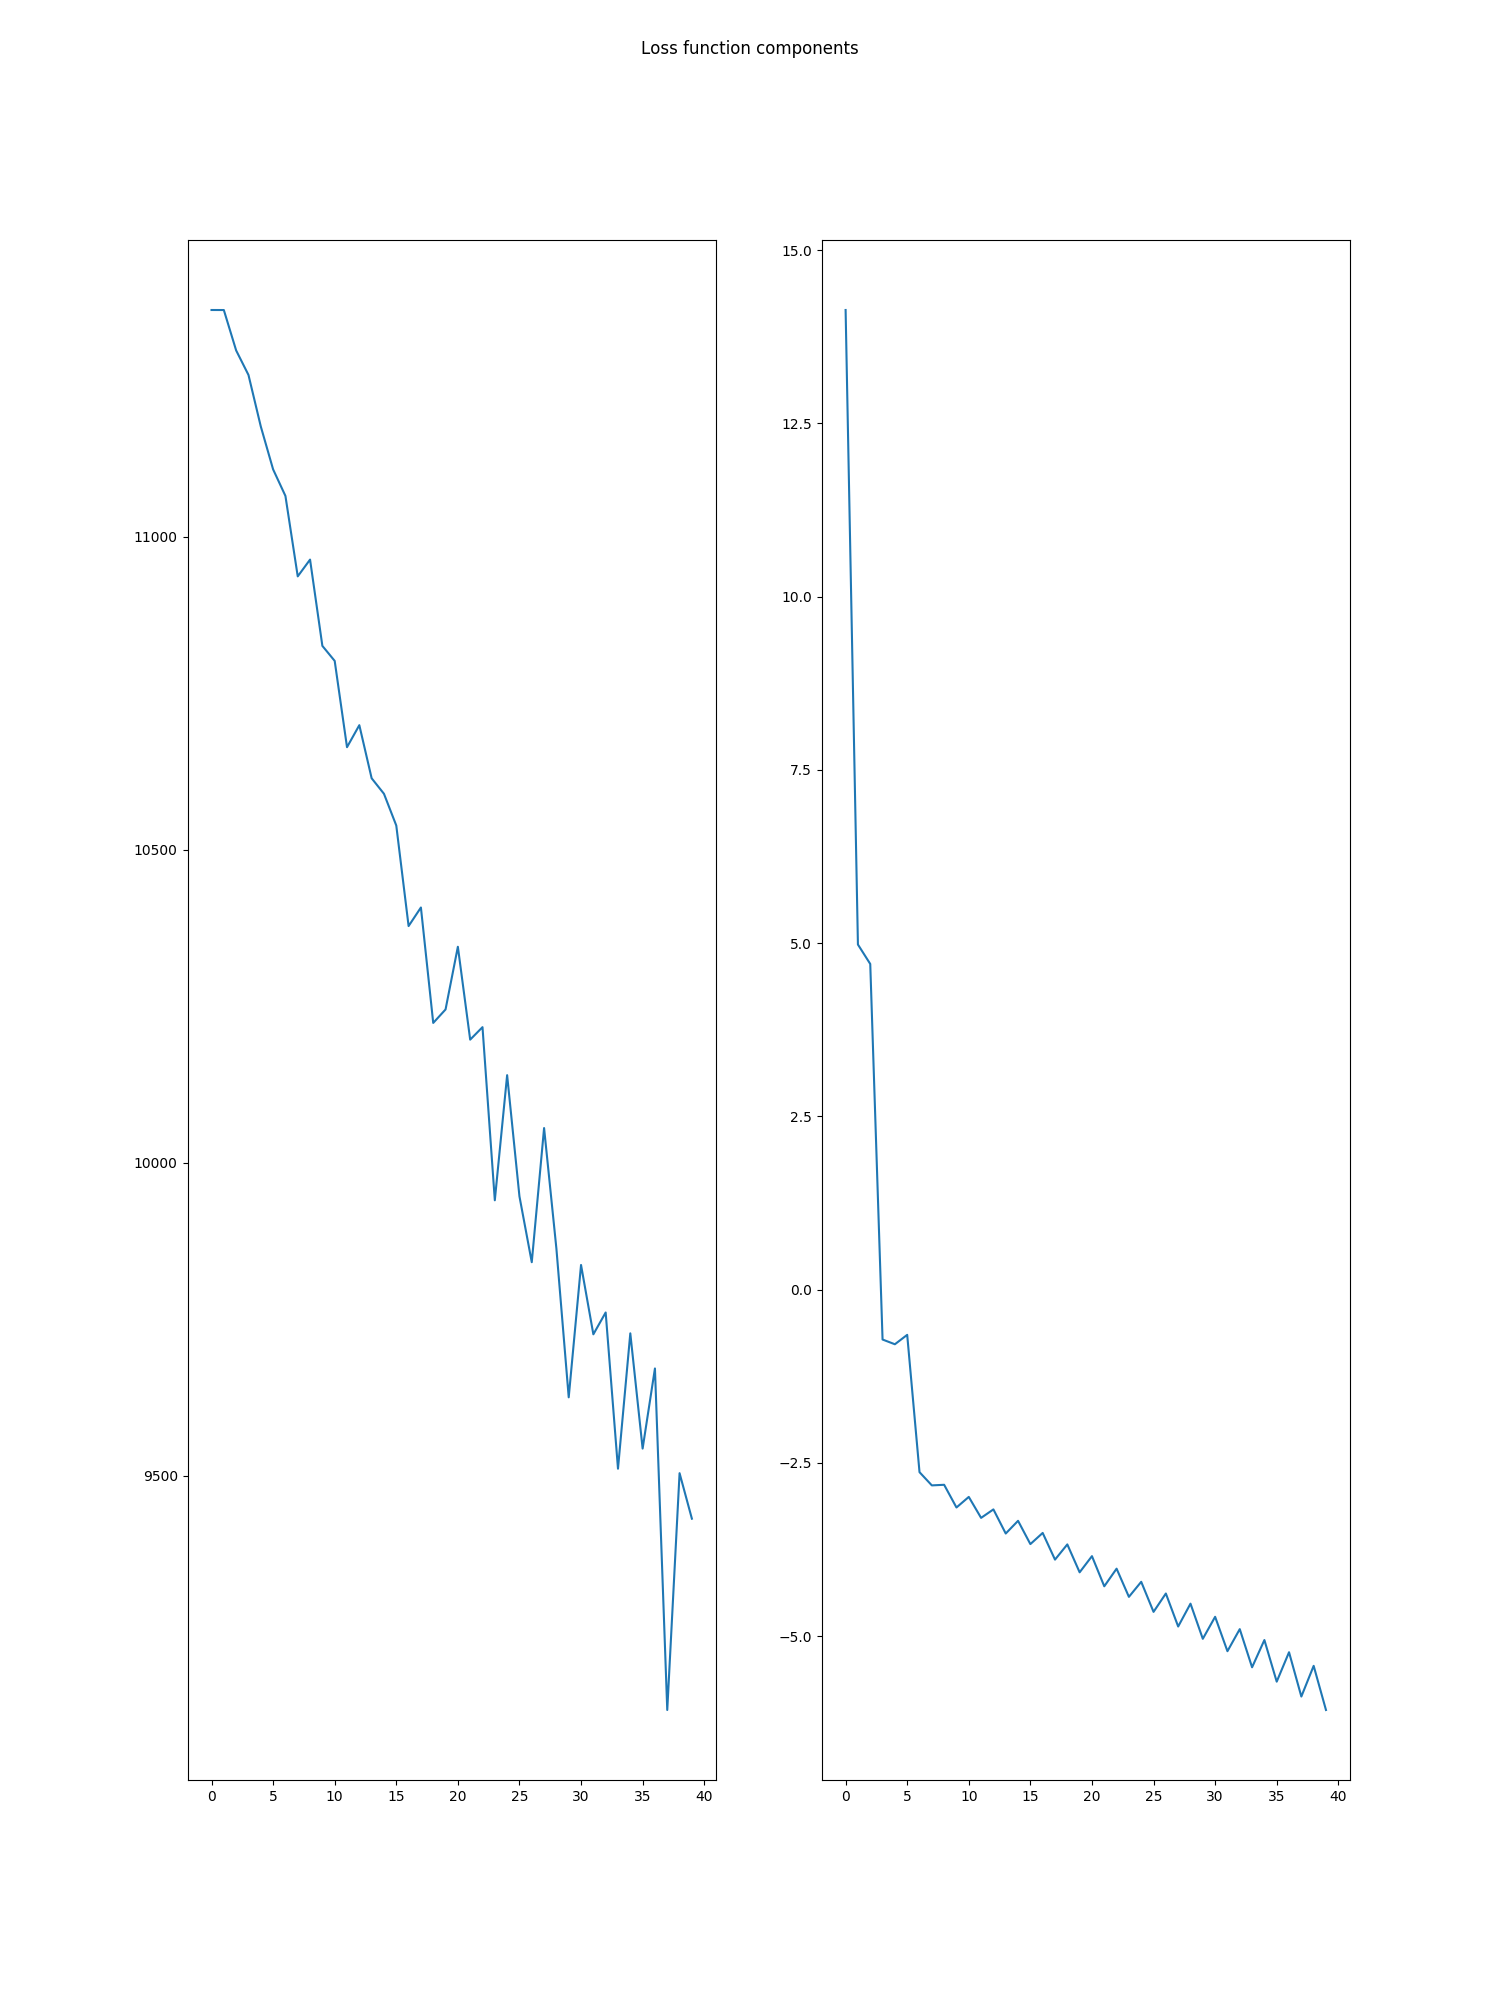
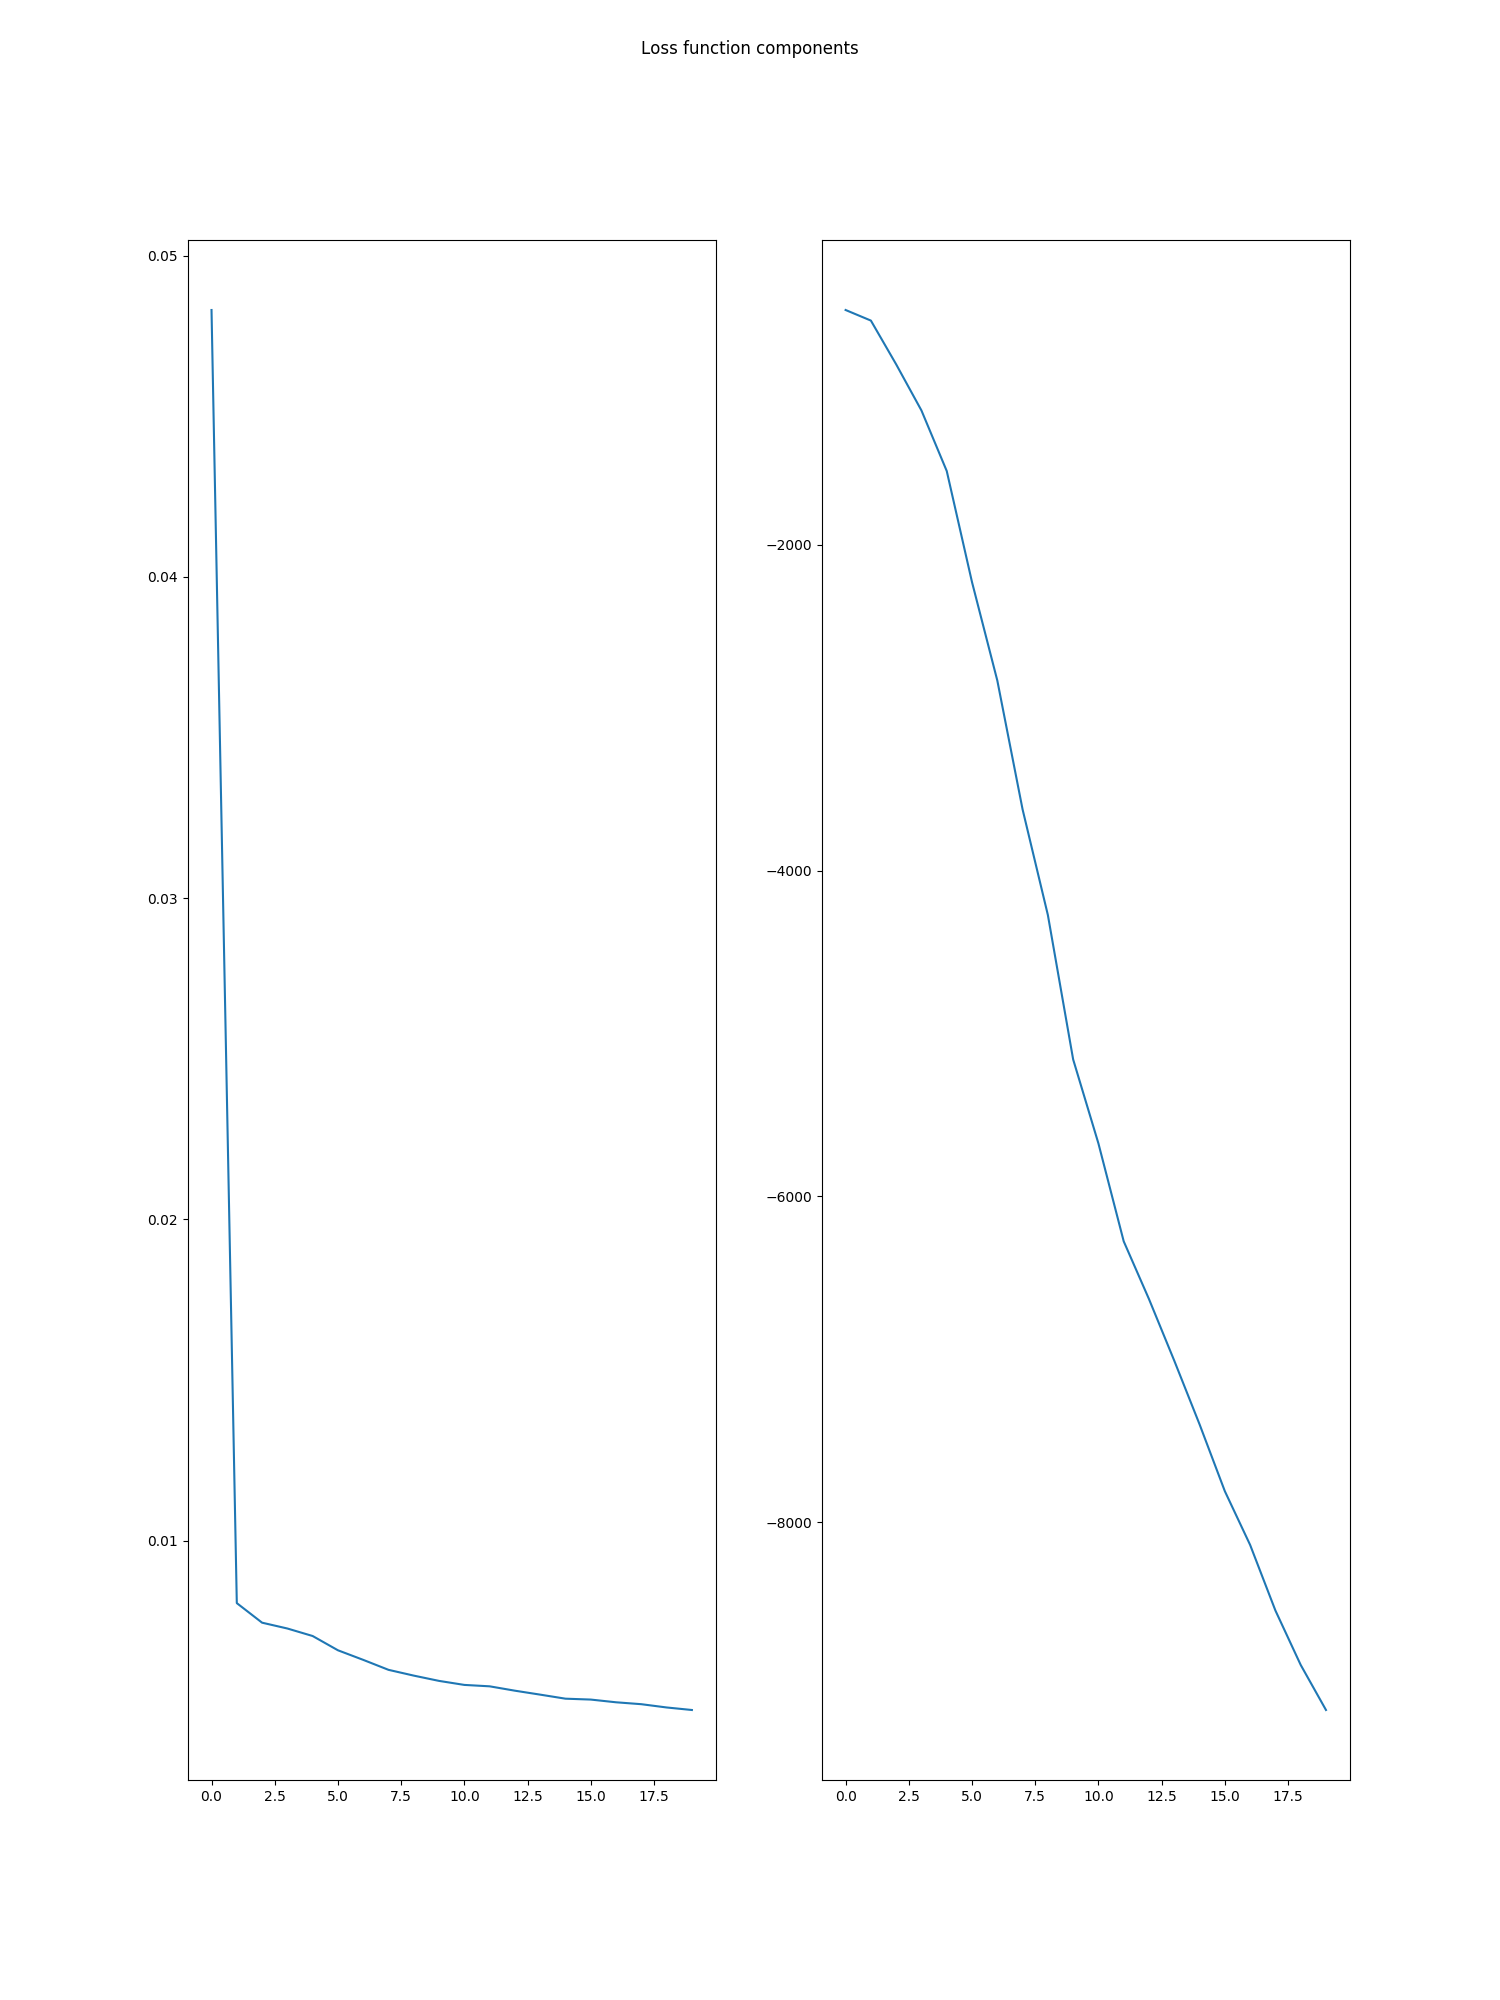
running draw model

diff --git a/src/VAE_model.py b/src/VAE_model.py
@@ -12,23 +12,24 @@ import numpy as np
 # tf.enable_eager_execution()
 
 # %%
+test_mode = False
 
 H, W = 128, 128  # image dimensions
 n_pixels = H*W  # number of pixels in image
 kernel_size = [2, 2]
-dec_size = 350  # 00
-enc_size = 350  # 00
-T = 10
+dec_size = 3 if test_mode else 150  # 00
+enc_size = 3 if test_mode else 150  # 00
+T = 2 if test_mode else 10
 batch_size = 100
 input_size = (batch_size, H, W, 1)
 
-train_iters = 200
+epochs = 20
 eta = 1e-3
 eps = 1e-8
 
 read_size = 2*n_pixels
 write_size = n_pixels
-latent_dim = 200
+latent_dim = 2 if test_mode else 100
 
 DO_SHARE = None
 
@@ -47,16 +48,16 @@ x = tf.placeholder(tf.float32, shape=(batch_size, n_pixels))
 #             )
 
 encoder = tf.nn.rnn_cell.LSTMCell(
-                enc_size,
-                state_is_tuple=True,
-                activity_regularizer=tf.contrib.layers.l2_regularizer(0.001)
-                )
+    enc_size,
+    state_is_tuple=True,
+    activity_regularizer=tf.contrib.layers.l2_regularizer(0.001)
+)
 
 decoder = tf.nn.rnn_cell.LSTMCell(
-                dec_size,
-                state_is_tuple=True,
-                activity_regularizer=tf.contrib.layers.l2_regularizer(0.001)
-                )
+    dec_size,
+    state_is_tuple=True,
+    activity_regularizer=tf.contrib.layers.l2_regularizer(0.001)
+)
 
 print(encoder.output_size, decoder.output_size)
 
@@ -72,18 +73,18 @@ def longform(x):
 def linear_conv(x, output_dim):
     w = tf.get_variable("w", [128, 128, output_dim])
     b = tf.get_variable(
-            "b",
-            [output_dim],
-            initializer=tf.constant_initializer(0.0))
+        "b",
+        [output_dim],
+        initializer=tf.constant_initializer(0.0))
     return tf.reshape(tf.tensordot(x, w, [[1, 2], [0, 1]]), (100, 20)) + b
 
 
 def linear(x, output_dim):
     w = tf.get_variable("w", [x.get_shape()[1], output_dim])
     b = tf.get_variable(
-            "b",
-            [output_dim],
-            initializer=tf.constant_initializer(0.0))
+        "b",
+        [output_dim],
+        initializer=tf.constant_initializer(0.0))
     return tf.matmul(x, w) + b
 
 
@@ -167,7 +168,7 @@ for t in range(T):
 KL = tf.add_n(KL_loss)
 Lz = tf.reduce_mean(KL)
 
-cost = Lx + Lz
+cost = Lx  # + Lz
 
 # OPTIMIZATION
 
@@ -180,8 +181,8 @@ for i, (g, v) in enumerate(grads):
 
 train_op = optimizer.apply_gradients(grads)
 
-t_fn = "/home/solli-comphys/github/VAE-event-classification/data/processed/train.npy"
-te_fn = "/home/solli-comphys/github/VAE-event-classification/data/processed/test.npy"
+t_fn = "/Users/solli/Documents/github/VAE-event-classification/data/processed/train.npy"
+te_fn = "/Users/solli/Documents/github/VAE-event-classification/data/processed/test.npy"
 
 X_train = np.load(t_fn)
 n_train = X_train.shape[0]
@@ -189,10 +190,10 @@ n_train = X_train.shape[0]
 X_test = np.load(te_fn)
 n_test = X_test.shape[0]
 
+train_iters = n_train // batch_size
+
 fetches = []
 fetches.extend([Lx, Lz, train_op])
-Lxs = [0]*train_iters
-Lzs = [0]*train_iters
 
 sess = tf.InteractiveSession()
 
@@ -203,50 +204,71 @@ for v in tf.global_variables():
     print("%s : %s " % (v.name, v.get_shape()))
 
 
-def fetch_minibatch(x):
-    ind = np.random.randint(0, n_train, size=(batch_size, ))
-    return X_train[ind].reshape(batch_size, n_pixels)
-
-
 def store_result():
+    print("saving model and drawings")
     canvasses = sess.run(canvas_seq, feed_dict)
     canvasses = np.array(canvasses)
 
-    filename = "/home/solli-comphys/github/VAE-event-classification/drawing/canvasses.npy"
+    filename = "/Users/solli/Documents/github/VAE-event-classification/drawing/canvasses.npy"
     np.save(filename, canvasses)
 
-    model_fn = "/home/solli-comphys/github/VAE-event-classification/models/draw.ckpt"
+    model_fn = "/Users/solli/Documents/github/VAE-event-classification/models/draw.ckpt"
     saver.save(sess, model_fn)
 
 
+class BatchManager:
+
+    def __init__(self, nSamples):
+        self.available = np.arange(0, nSamples)
+        self.nSamples = nSamples
+
+    def fetch_minibatch(self, x):
+        tmp_ind = np.random.randint(0, self.nSamples, size=(batch_size, ))
+        ind = self.available[tmp_ind]
+
+        self.available = np.delete(self.available, tmp_ind)
+        self.nSamples = len(self.available)
+
+        return X_train[ind].reshape(batch_size, n_pixels)
+
+
 n_mvavg = 5
-moving_average = [0]*(train_iters // n_mvavg)
+moving_average = [0] * (epochs // n_mvavg)
 best_average = 1e5
 to_average = [0]*n_mvavg
 ta_which = 0
+all_lx = [0]*epochs
+all_lz = [0]*epochs
 
+for i in range(epochs):
+    Lxs = [0]*train_iters
+    Lzs = [0]*train_iters
+    bm_inst = BatchManager(len(X_train))
 
-for i in range(train_iters):
-    x_train = fetch_minibatch(X_train)
-    feed_dict = {x: x_train}
-    results = sess.run(fetches, feed_dict)
-    Lxs[i], Lzs[i], _ = results
+    for j in range(train_iters):
+        x_train = bm_inst.fetch_minibatch(X_train)
+        feed_dict = {x: x_train}
+        results = sess.run(fetches, feed_dict)
+        Lxs[j], Lzs[j], _ = results
 
-    to_average[ta_which] = Lxs[i]
+    all_lz[i] = tf.reduce_mean(Lzs).eval()
+    all_lx[i] = tf.reduce_mean(Lxs).eval()
+
+    to_average[ta_which] = all_lx[i]
     ta_which += 1
 
     if i % n_mvavg == 0:
         ta_which = 0
-        moving_average[i // n_mvavg] = np.average(to_average)
+        moving_average[i // n_mvavg] = tf.reduce_mean(to_average).eval()
 
-        if moving_average[i // 10] < best_average:
+        if moving_average[i // n_mvavg] < best_average:
             store_result()
             best_average = moving_average[i // n_mvavg]
-        print("iter=%d : Lx: %f Lz: %f mvAVG: %f" % (
-                        i,
-                        Lxs[i],
-                        Lzs[i],
-                        moving_average[i//n_mvavg]))
+        print("epoch=%d : Lx: %f Lz: %f mvAVG: %f" % (
+            i,
+            all_lx[i],
+            all_lz[i],
+            moving_average[i//n_mvavg]))
 
 # TRAINING DONE
 
@@ -254,9 +276,10 @@ for i in range(train_iters):
 fig, axs = plt.subplots(nrows=1, ncols=2, figsize=(15, 20), sharex=True)
 plt.suptitle("Loss function components")
 
-axs[0].plot(range(train_iters), Lxs, label=r"$\mathcal{L}_x$")
-axs[1].plot(range(train_iters), Lzs, label=r"$\mathcal{L}_z$")
+axs[0].plot(range(epochs), all_lx, label=r"$\mathcal{L}_x$")
+axs[1].plot(range(epochs), all_lz, label=r"$\mathcal{L}_z$")
 
-fig.savefig("/home/solli-comphys/github/VAE-event-classification/plots∕loss_functions.png")
+fig.savefig(
+    "/Users/solli/Documents/github/VAE-event-classification/plots∕loss_functions.png")
 
 sess.close()

diff --git a/src/preproccesing.py b/src/preproccesing.py
@@ -4,8 +4,9 @@ from data_loader import DataLoader
 from skimage import util
 import numpy as np
 
-file_location = "/home/solli-comphys/github/VAE-event-classification/data/real/packaged/x-y/proton-carbon-junk-noise.h5"
+file_location = "/Users/solli/Documents/github/VAE-event-classification/data/images.h5"
 X_train, y_train, X_test, y_test = DataLoader(file_location)
+
 
 def rgb2gray(rgb):
 
@@ -13,6 +14,7 @@ def rgb2gray(rgb):
     gray = 0.2989 * r + 0.5870 * g + 0.1140 * b
 
     return gray
+
 
 X_train = rgb2gray(X_train)/255
 for i, x in enumerate(X_train):
@@ -36,8 +38,8 @@ X_test[threshhold_indices_test] = 0
 X_train = X_train.reshape(X_train.shape + (1,))
 X_test = X_test.reshape(X_test.shape + (1,))
 
-t_fn = "/home/solli-comphys/github/VAE-event-classification/data/processed/train.npy"
-te_fn = "/home/solli-comphys/github/VAE-event-classification/data/processed/test.npy"
+t_fn = "/Users/solli/Documents/github/VAE-event-classification/data/processed/train.npy"
+te_fn = "/Users/solli/Documents/github/VAE-event-classification/data/processed/test.npy"
 
 np.save(t_fn, X_train)
 np.save(te_fn, X_test)

diff --git a/src/data_loader.py b/src/data_loader.py
@@ -1,6 +1,7 @@
 #!/usr/bin/env python3
 import h5py
 
+
 def DataLoader(file_location):
     fileobj = h5py.File(file_location, "r")
     X_t = fileobj["train_features"]
@@ -11,7 +12,8 @@ def DataLoader(file_location):
 
     return X_t, y_t, X_v, y_v
 
+
 if __name__ == "__main__":
 
-    file_location = "/home/solli-comphys/github/VAE-event-classification/data/real/packaged/x-y/proton-carbon-junk-noise.h5"
+    file_location = "~/Documents/github/VAE-event-classification/data/real/packaged/x-y/proton-carbon-junk-noise.h5"
     a = DataLoader(file_location)
